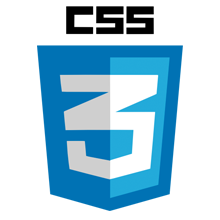
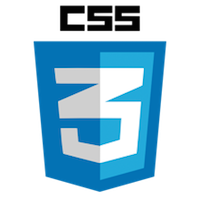
Resize of topics images

diff --git a/app/assets/stylesheets/topic.css.scss b/app/assets/stylesheets/topic.css.scss
@@ -30,8 +30,8 @@
 
 
 .div{
-	width:220px;
-	height:220px;
+	width:200px;
+	height:200px;
 	height:15em;
 	border:3px solid black;
 	float:left;
